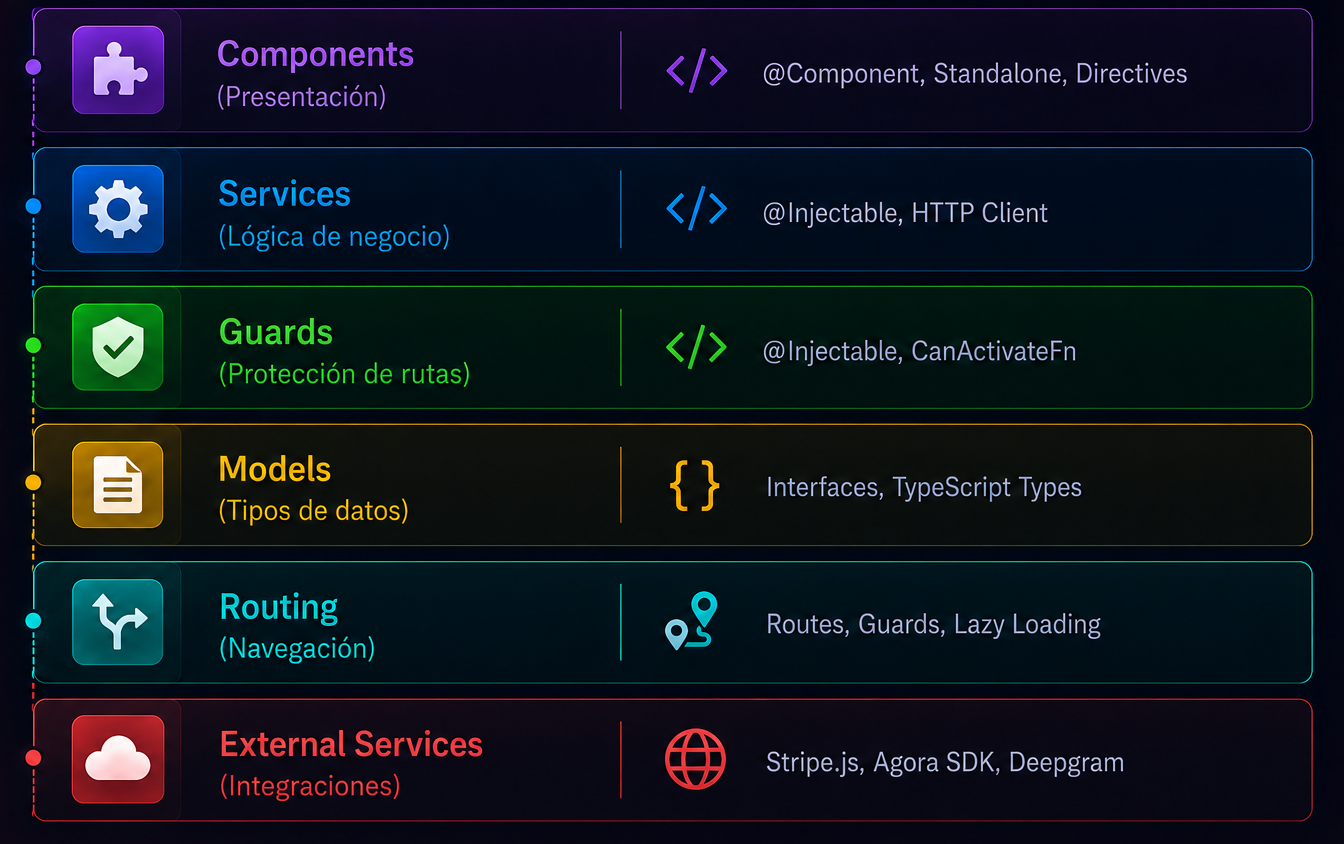
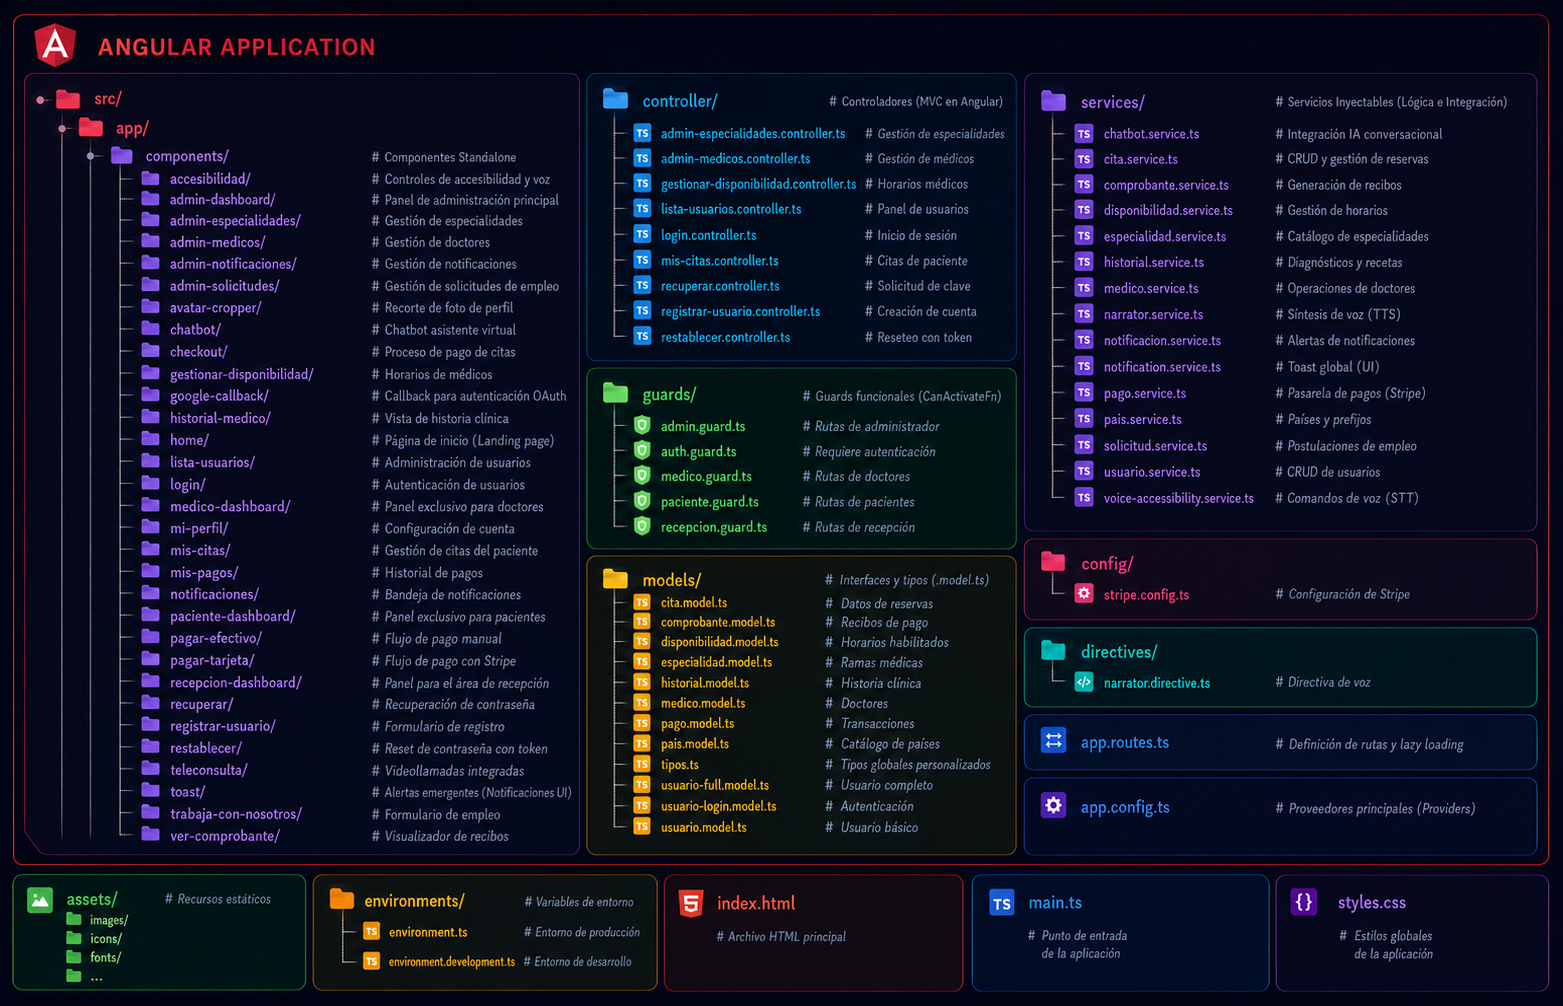
docs: renombrar imágenes para usar nomenclatura correcta de arquitectura vs estructura

Changed region(s): [[0.0, 0.0, 1.0, 0.9858]]

diff --git a/Frontend/README.md b/Frontend/README.md
@@ -13,7 +13,7 @@ El frontend de **RETO SALUD** es una Single Page Application (SPA) desarrollada 
 ## Arquitectura del Frontend
 
 <div align="center">
-  <img alt="Arquitectura del Frontend" src="../assets/estructura_frontend.png" width="800">
+  <img alt="Arquitectura del Frontend" src="../assets/arquitectura_frontend.png" width="800">
 </div>
 
 ## Stack Tecnológico
@@ -67,7 +67,7 @@ La aplicación se abrirá automáticamente y estará disponible en: `http://loca
 ## Estructura del Proyecto
 
 <div align="center">
-  <img alt="Estructura de Directorios" src="../assets/arbol_directorios_frontend.png" width="800">
+  <img alt="Estructura de Directorios" src="../assets/estructura_frontend.png" width="800">
 </div>
 
 ## Características Especiales de Accesibilidad ♿